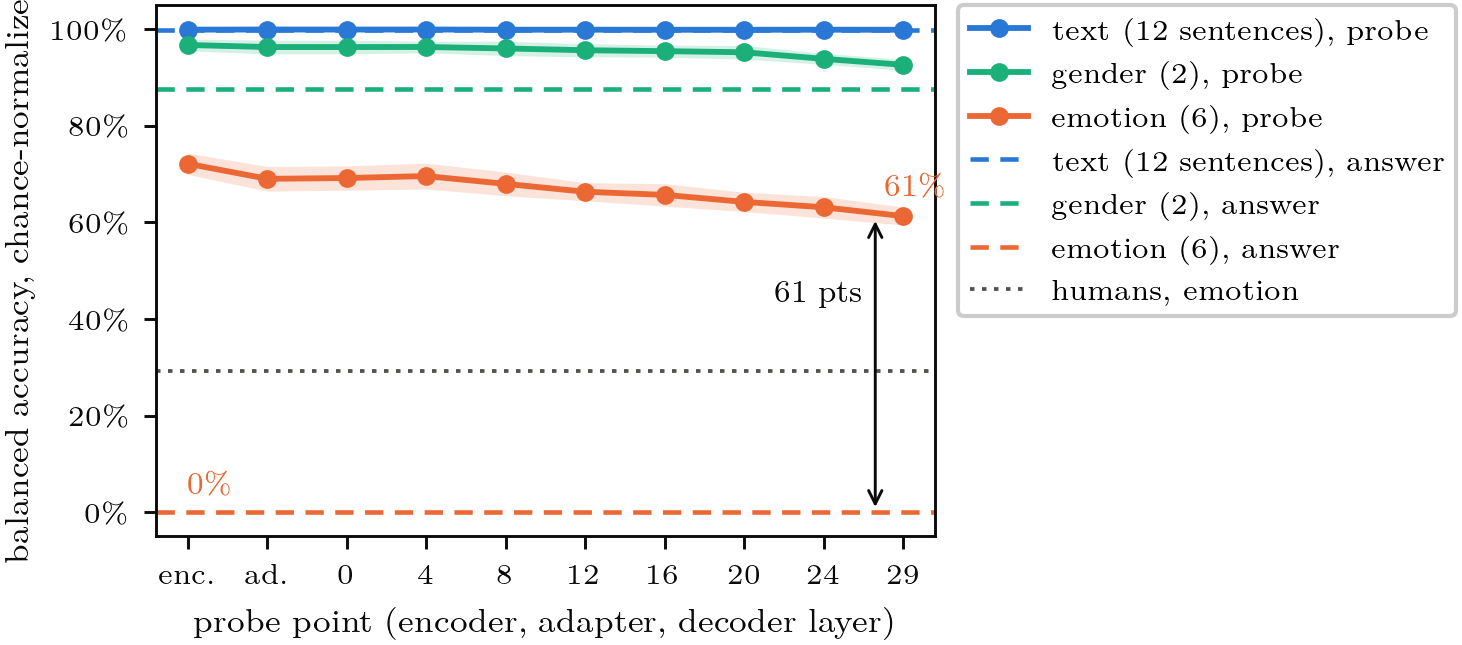
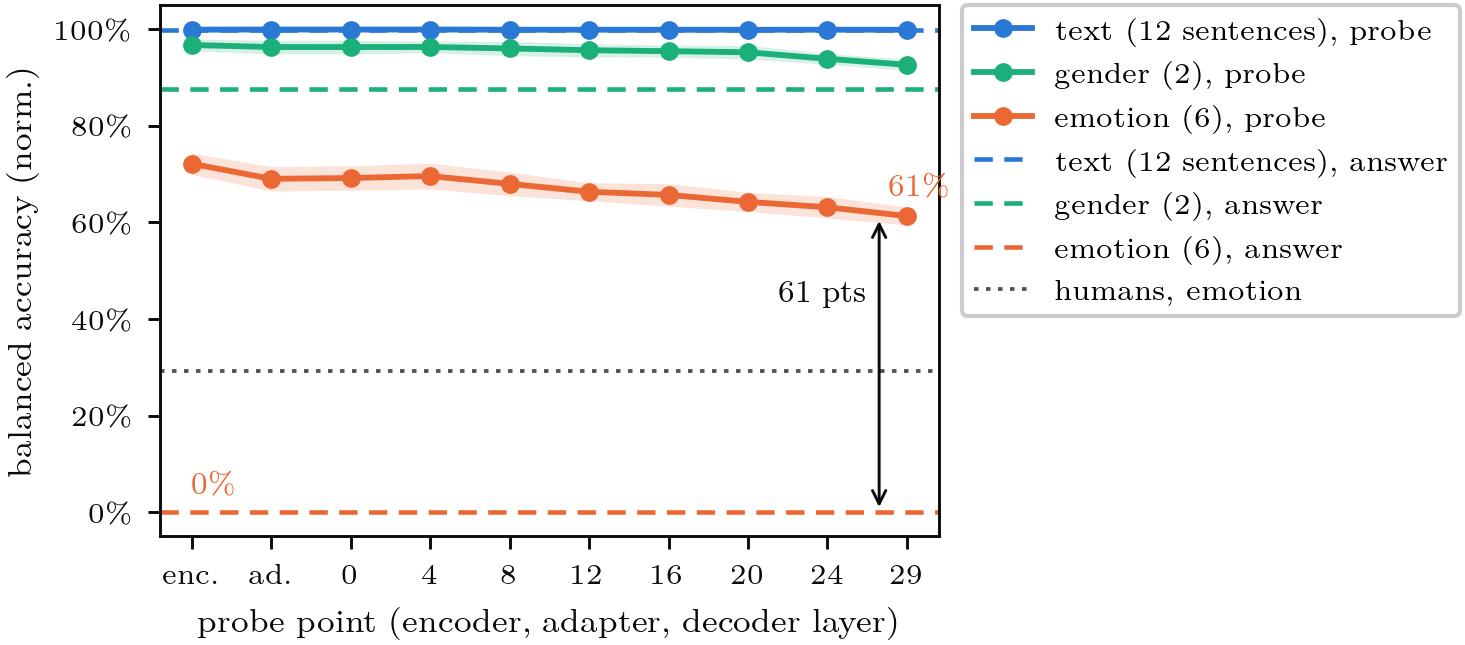
Shorter y label so it fits the column

diff --git a/plot.py b/plot.py
@@ -16,10 +16,10 @@ TASKS = {"text": S.BLUE, "gender": S.AQUA, "emotion": S.ORANGE}
 WORDS = {
     "fr": {"text": "texte (12 phrases)", "gender": "genre (2)", "emotion": "émotion (6)", "probe": "sonde", "answer": "réponse",
            "human": "humains, émotion", "x": "point de sonde (encodeur, adaptateur, couche du décodeur)",
-           "y": "accuracy équilibrée, normalisée", "enc": "enc.", "adapt": "ad."},
+           "y": "acc. équilibrée (norm.)", "enc": "enc.", "adapt": "ad."},
     "en": {"text": "text (12 sentences)", "gender": "gender (2)", "emotion": "emotion (6)", "probe": "probe", "answer": "answer",
            "human": "humans, emotion", "x": "probe point (encoder, adapter, decoder layer)",
-           "y": "balanced accuracy, chance-normalized", "enc": "enc.", "adapt": "ad."},
+           "y": "balanced accuracy (norm.)", "enc": "enc.", "adapt": "ad."},
 }[lang]
 HUMAN_EMOTION = 100 * (0.41 - 1 / 6) / (1 - 1 / 6)  # audio-only human raters, Cao et al. 2014
 
